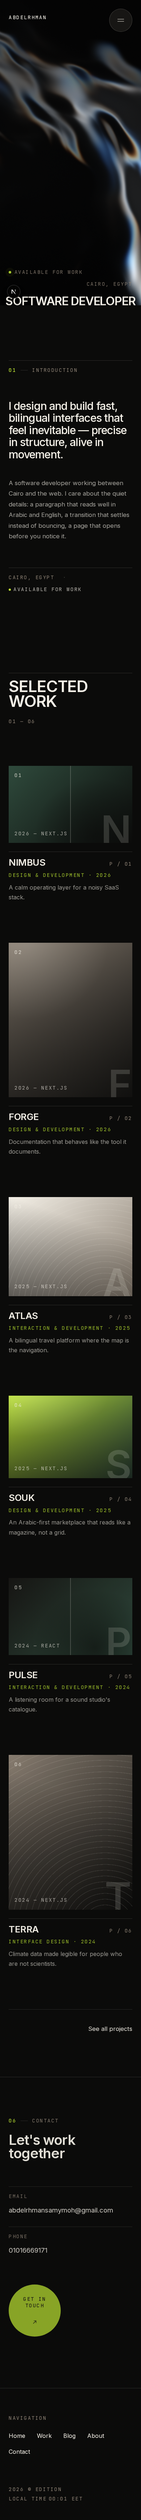
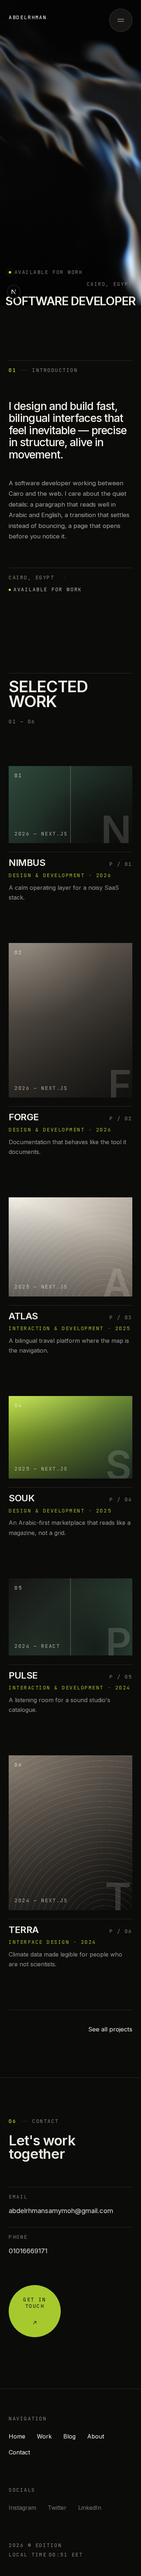
feat(footer): restore the social row, links as URLs are provided

diff --git a/src/features/footer/SiteFooter.tsx b/src/features/footer/SiteFooter.tsx
@@ -1,3 +1,4 @@
+import type { Social } from "@/content/socials";
 import LinkLine from "@/features/ui/LinkLine";
 import type { NavLink } from "@/features/navigation/nav";
 
@@ -6,24 +7,27 @@ import LocalTime from "./LocalTime";
 type Props = {
   labels: {
     navigation: string;
+    socials: string;
     edition: string;
     localTime: string;
   };
   links: NavLink[];
+  socials: Social[];
 };
 
 /**
  * The closing bar. It keeps the site's one navigation grammar — mono labels,
- * hairline rules, the same routes in the same order — and drops the social row
- * rather than shipping dead `#` links: a real destination or nothing.
+ * hairline rules, the same routes in the same order — and shows the social row
+ * only as destinations that actually exist. An entry without a URL is plain
+ * text, never a dead `#` link.
  *
- * Every row here is at least 44px tall; the links are inline-flex so the
- * target is the whole box, not just the text.
+ * Every link row is at least 44px tall; the links are inline-flex so the target
+ * is the whole box, not just the text.
  */
-export default function SiteFooter({ labels, links }: Props) {
+export default function SiteFooter({ labels, links, socials }: Props) {
   return (
     <footer className="border-t border-[var(--line-hairline)] px-[var(--inset-edge)] pb-[max(var(--space-5),var(--inset-edge))] pt-[var(--space-6)]">
-      <div className="flex flex-wrap items-end justify-between gap-[var(--space-6)]">
+      <div className="grid gap-[var(--space-6)] md:grid-cols-[minmax(0,1fr)_minmax(0,1fr)_auto] md:items-start">
         <nav aria-label={labels.navigation} className="min-w-0">
           <p className="ui-label m-0">{labels.navigation}</p>
 
@@ -36,6 +40,30 @@ export default function SiteFooter({ labels, links }: Props) {
                 >
                   {link.label}
                 </LinkLine>
+              </li>
+            ))}
+          </ul>
+        </nav>
+
+        <nav aria-label={labels.socials} className="min-w-0">
+          <p className="ui-label m-0">{labels.socials}</p>
+
+          <ul className="m-0 mt-[var(--space-2)] flex list-none flex-wrap gap-x-[var(--space-4)] gap-y-0 p-0">
+            {socials.map((social) => (
+              <li key={social.key} className="flex">
+                {social.href ? (
+                  <LinkLine
+                    href={social.href}
+                    external
+                    className="inline-flex min-h-11 items-center text-t-16"
+                  >
+                    {social.label}
+                  </LinkLine>
+                ) : (
+                  <span className="inline-flex min-h-11 items-center text-t-16 text-bone/45">
+                    {social.label}
+                  </span>
+                )}
               </li>
             ))}
           </ul>

diff --git a/src/app/layout.tsx b/src/app/layout.tsx
@@ -2,6 +2,7 @@ import type { Metadata } from "next";
 import { Inter, JetBrains_Mono } from "next/font/google";
 
 import { copy } from "@/content/copy";
+import { socials } from "@/content/socials";
 import ContactChapter from "@/features/contact-cta/ContactChapter";
 import ContactCta from "@/features/contact-cta/ContactCta";
 import SiteFooter from "@/features/footer/SiteFooter";
@@ -78,10 +79,12 @@ export default function RootLayout({
         <SiteFooter
           labels={{
             navigation: copy.footer.navigation,
+            socials: copy.footer.socials,
             edition: copy.footer.edition,
             localTime: copy.footer.localTime,
           }}
           links={links}
+          socials={socials}
         />
       </body>
     </html>

diff --git a/src/content/socials.ts b/src/content/socials.ts
@@ -1,0 +1,21 @@
+/**
+ * Social destinations.
+ *
+ * A `href` is either a real profile URL or an empty string. Empty renders the
+ * label as plain text: the row is always visible, but the site never ships a
+ * dead `#` link. Fill a URL and that entry becomes a real external link with
+ * the same semantics as every other link on the site.
+ */
+export type SocialKey = "instagram" | "twitter" | "linkedin";
+
+export type Social = {
+  key: SocialKey;
+  label: string;
+  href: string;
+};
+
+export const socials: Social[] = [
+  { key: "instagram", label: "Instagram", href: "" },
+  { key: "twitter", label: "Twitter", href: "" },
+  { key: "linkedin", label: "LinkedIn", href: "" },
+];

diff --git a/tests/editorial-routes.spec.ts b/tests/editorial-routes.spec.ts
@@ -107,6 +107,19 @@ test.describe("footer and targets", () => {
     }
 
     await expect(page.locator('a[href="#"]')).toHaveCount(0);
+
+    const socials = page.getByRole("navigation", { name: "Socials" });
+    for (const label of ["Instagram", "Twitter", "LinkedIn"]) {
+      await expect(socials).toContainText(label);
+    }
+
+    const socialLinks = socials.locator("a");
+    for (let index = 0; index < (await socialLinks.count()); index += 1) {
+      await expect(socialLinks.nth(index)).toHaveAttribute(
+        "href",
+        /^https?:\/\//,
+      );
+    }
   });
 
   test("the fixed trigger clears contact links", async ({ page }) => {

diff --git a/src/content/copy.ts b/src/content/copy.ts
@@ -42,6 +42,7 @@ export const copy = {
 
   footer: {
     navigation: "Navigation",
+    socials: "Socials",
     edition: "2026 © Edition",
     localTime: "Local time",
   },
